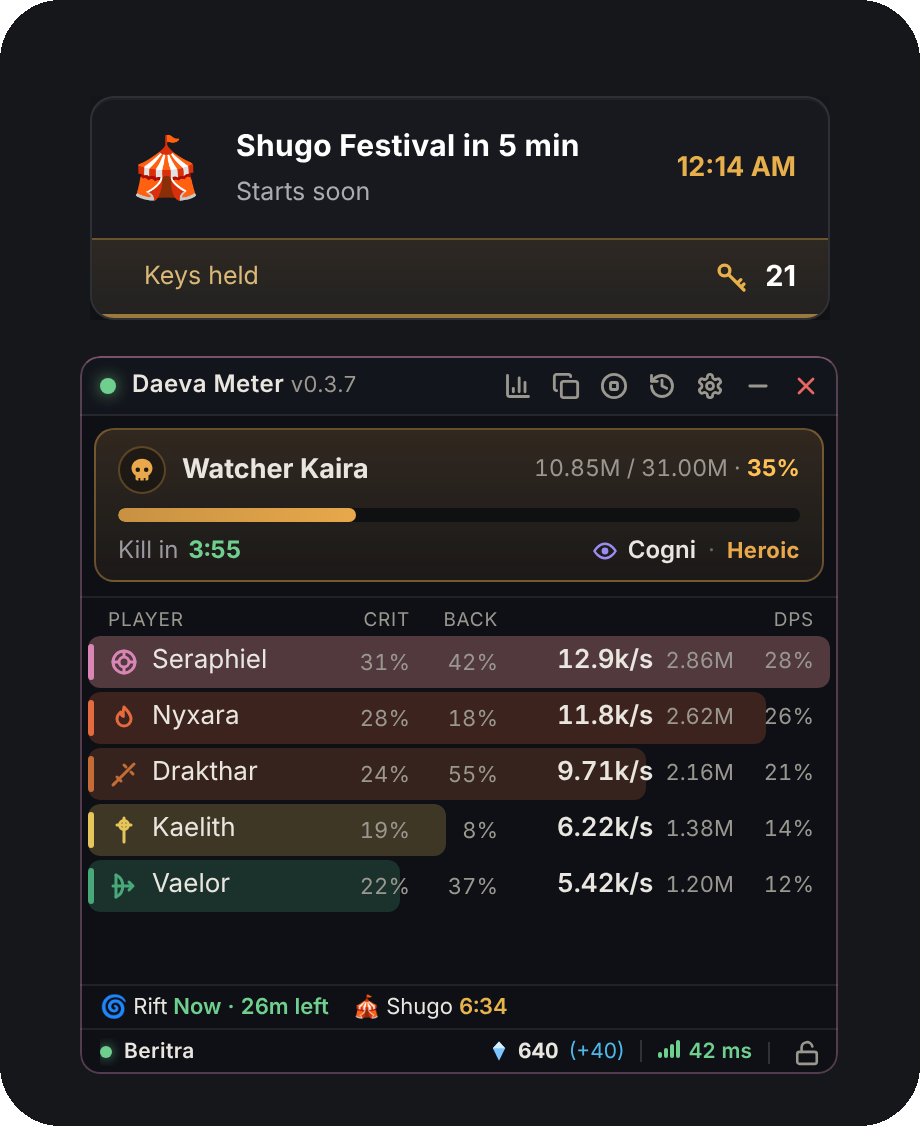
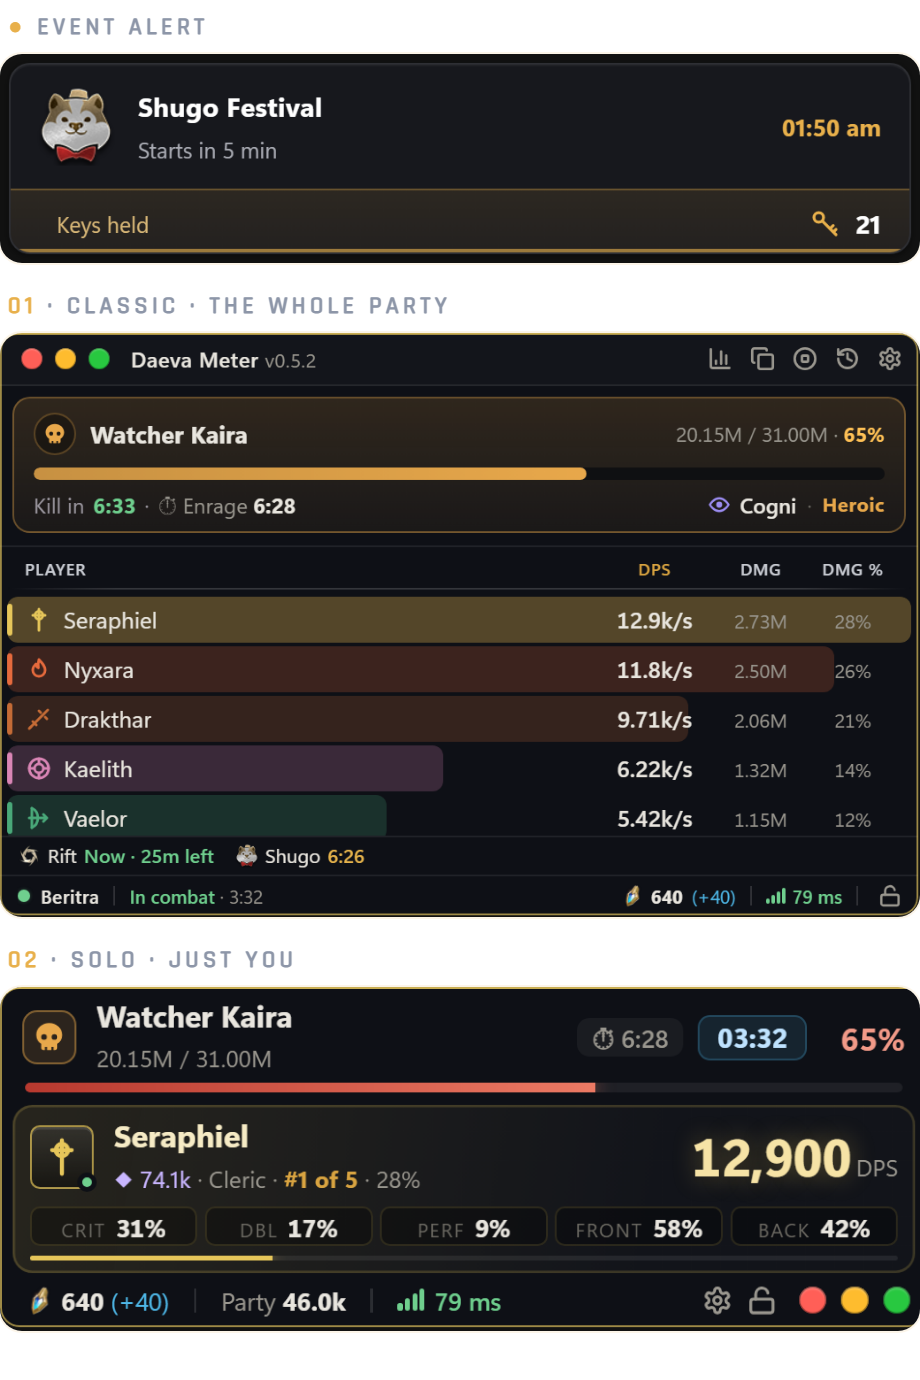
Website meter section and release post pictures (v1.7.1)
New 0.5.2 picture on aion2.bajubesi.org (event alert, Classic, Solo),
list mentions both layouts and self-updating, Open source on GitHub
is a gold-outline button with the GitHub logo. Release posts use the
wide picture from the meter's README (meter-showcase.png).

diff --git a/source/public/index.html b/source/public/index.html
@@ -154,16 +154,16 @@
           <h2 id="meter-title">Daeva Meter for Windows</h2>
           <p class="sub">Our free, passive damage meter for AION 2. It only reads network traffic and never touches the game.</p>
           <ul>
-            <li><span class="ic" data-icon="activity"></span>Live DPS for you and your party, with skill breakdowns</li>
+            <li><span class="ic" data-icon="activity"></span><span>Live DPS with skill breakdowns, in two layouts: <b>Classic</b> for the party, <b>Solo</b> for just you</span></li>
             <li><span class="ic" data-icon="skull"></span>Boss card with HP, type and rank</li>
             <li><span class="ic" data-icon="bell-ring"></span>Event alerts from the same schedule as this site</li>
-            <li><span class="ic" data-icon="refresh-cw"></span>Tells you when a new version is out</li>
+            <li><span class="ic" data-icon="refresh-cw"></span>Updates itself when a new version is out</li>
           </ul>
           <a class="btn gold" href="https://github.com/fhazal/DAEVA-dps-meter/releases/latest" target="_blank" rel="noopener noreferrer"><span class="ic" data-icon="download"></span>Download for Windows</a>
-          <a class="text-link" href="https://github.com/fhazal/DAEVA-dps-meter" target="_blank" rel="noopener noreferrer">Open source on GitHub <span class="ic" data-icon="external-link"></span></a>
+          <a class="btn gh" href="https://github.com/fhazal/DAEVA-dps-meter" target="_blank" rel="noopener noreferrer"><svg class="gh-mark" viewBox="0 0 16 16" aria-hidden="true"><path fill="currentColor" d="M8 0C3.58 0 0 3.58 0 8c0 3.54 2.29 6.53 5.47 7.59.4.07.55-.17.55-.38 0-.19-.01-.82-.01-1.49-2.01.37-2.53-.49-2.69-.94-.09-.23-.48-.94-.82-1.13-.28-.15-.68-.52-.01-.53.63-.01 1.08.58 1.23.82.72 1.21 1.87.87 2.33.66.07-.52.28-.87.51-1.07-1.78-.2-3.64-.89-3.64-3.95 0-.87.31-1.59.82-2.15-.08-.2-.36-1.02.08-2.12 0 0 .67-.21 2.2.82.64-.18 1.32-.27 2-.27.68 0 1.36.09 2 .27 1.53-1.04 2.2-.82 2.2-.82.44 1.1.16 1.92.08 2.12.51.56.82 1.27.82 2.15 0 3.07-1.87 3.75-3.65 3.95.29.25.54.73.54 1.48 0 1.07-.01 1.93-.01 2.2 0 .21.15.46.55.38A8.013 8.013 0 0016 8c0-4.42-3.58-8-8-8z"/></svg>Open source on GitHub <span class="ic ext" data-icon="external-link"></span></a>
           <p class="signed"><span class="ic" data-icon="shield"></span><a href="https://github.com/fhazal/DAEVA-dps-meter/blob/main/CODE_SIGNING.md" target="_blank" rel="noopener noreferrer">Code signing policy</a></p>
         </div>
-        <img src="/daeva-meter.png" alt="Daeva Meter overlay showing a party's damage on a boss" width="460" height="563" loading="lazy">
+        <img src="/daeva-meter.png" alt="Daeva Meter: an event alert, the Classic layout and the Solo layout" width="460" height="690" loading="lazy">
       </div>
     </section>
 

diff --git a/source/public/styles.css b/source/public/styles.css
@@ -342,8 +342,10 @@ svg.lu { fill: none; stroke: currentColor; stroke-width: 2; stroke-linecap: roun
 .signed { display: flex; align-items: center; gap: 8px; margin-top: 14px; color: var(--muted); font-size: 13px; }
 .signed .ic { color: var(--green); }
 .signed a { color: var(--sky); font-weight: 600; }
-.text-link { display: inline-flex; align-items: center; gap: 6px; margin-left: 14px; color: var(--sky); font-size: 14px; font-weight: 600; }
-.text-link .ic { width: 14px; height: 14px; }
+.btn.gh { margin-left: 10px; background: rgba(232, 176, 75, .06); border-color: rgba(232, 176, 75, .55); color: var(--gold2); }
+.btn.gh:hover { background: rgba(232, 176, 75, .14); border-color: var(--gold); }
+.btn.gh .gh-mark { width: 18px; height: 18px; }
+.btn.gh .ext { width: 14px; height: 14px; opacity: .7; }
 
 /* Feature tiles and FAQ */
 .tiles { display: grid; grid-template-columns: repeat(3, 1fr); gap: 14px; }
@@ -411,7 +413,7 @@ svg.lu { fill: none; stroke: currentColor; stroke-width: 2; stroke-linecap: roun
   .cls-row { grid-template-columns: 28px 78px minmax(0, 1fr) 54px; }
   .app { grid-template-columns: 1fr; padding: 24px; gap: 24px; }
   .app img { max-width: 300px; }
-  .text-link { margin: 14px 0 0; display: flex; }
+  .btn.gh { margin: 12px 0 0; display: flex; width: max-content; }
   .footer .cols { grid-template-columns: 1fr 1fr; }
   .footer .cols > div:first-child { grid-column: 1 / -1; }
 }

diff --git a/source/src/services/updates.ts b/source/src/services/updates.ts
@@ -22,7 +22,7 @@ import { daevaFooter } from "../version.js";
 const REPO = "fhazal/DAEVA-dps-meter";
 const SITE = "https://aion2.bajubesi.org";
 const METER_ICON = `${SITE}/meter-icon.png`;
-const METER_SHOT = `${SITE}/daeva-meter.png`;
+const METER_SHOT = `${SITE}/meter-showcase.png`; // wide README picture; daeva-meter.png is the tall one for the site
 const POLL_MS = 15 * 60_000;
 const UA = { "user-agent": "Daeva-Discord-Bot (+https://aion2.bajubesi.org)", accept: "application/vnd.github+json" };
 

diff --git a/source/src/version.ts b/source/src/version.ts
@@ -3,7 +3,7 @@
  * Bump it with each release (new features: 1.4.0, fixes only: 1.3.1), in
  * step with package.json and CHANGELOG.md; a test checks they agree.
  */
-export const DAEVA_VERSION = "1.7.0";
+export const DAEVA_VERSION = "1.7.1";
 export const DAEVA_NAME = `Daeva v${DAEVA_VERSION}`;
 
 /** The maker's mark, at the end of every card's footer. */

diff --git a/CHANGELOG.md b/CHANGELOG.md
@@ -4,6 +4,11 @@ Daeva, the AION 2 Discord bot behind aion2.bajubesi.org. Versions follow
 the footer on every card: new features raise the middle number (1.4.0),
 fixes only raise the last (1.3.1).
 
+## 1.7.1 · 25 October 2026
+
+- **Website, Daeva Meter section:** a new picture with the 0.5.2 meter (an event alert, the Classic layout and the Solo layout), the list mentions both layouts and that the meter updates itself, and *Open source on GitHub* is now a gold-outline button with the GitHub logo.
+- **Daeva Meter release posts** show the wide picture from the meter's README instead of the old tall one.
+
 ## 1.7.0 · 24 October 2026
 
 - **Maintenance notice alerts clear themselves:** each alert now shows an *Auto-clears* countdown and is deleted after 24 hours (12 hours for *Temporary Maintenance*), so the alerts channel stops filling up.
